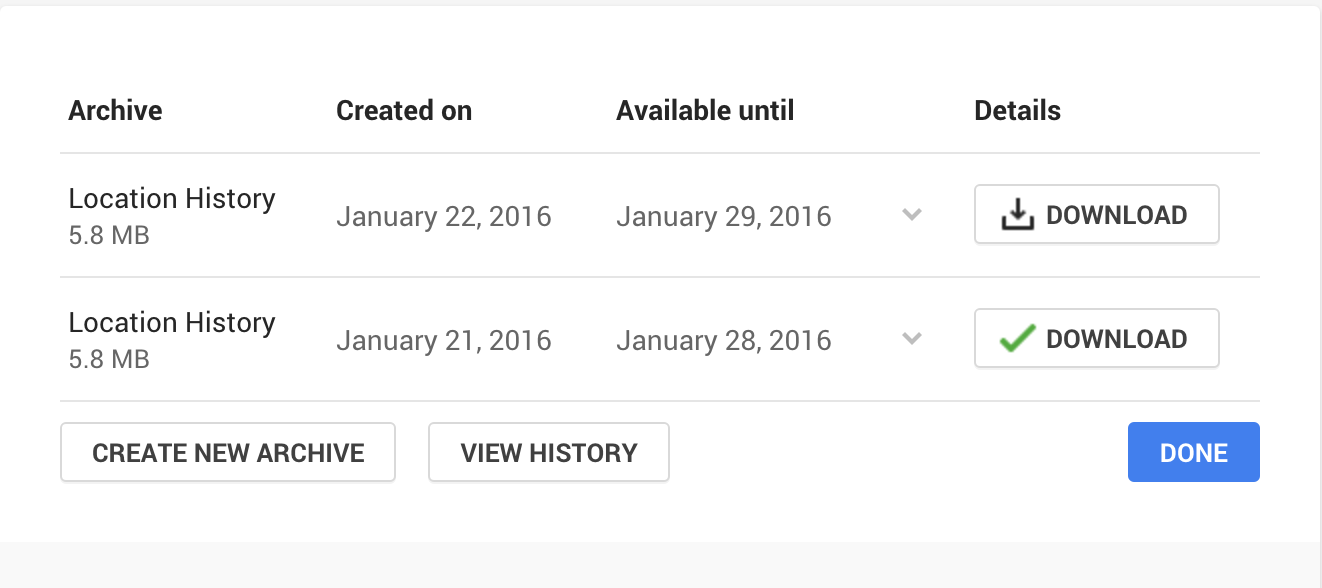
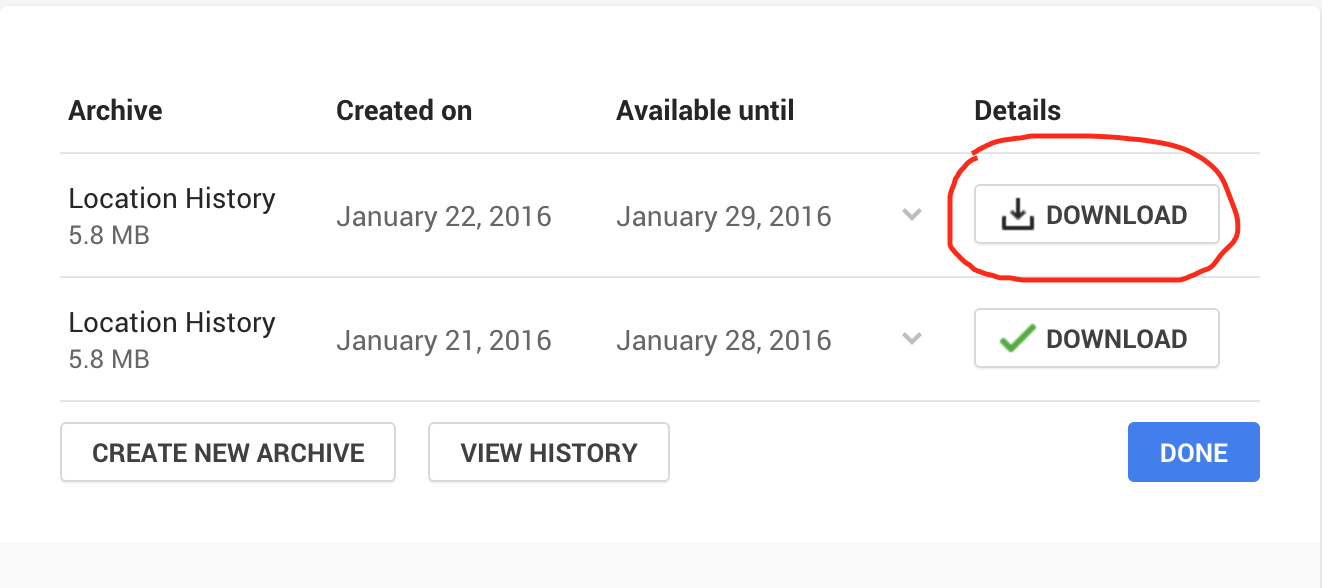
annotated images

diff --git a/download.html b/download.html
@@ -64,7 +64,7 @@
   <li>
     Optional: If you already went through the process of downloading Location History but never saved the data to
     <br>your computer, you can always click on <b>Manage archives</b> and then click <b>Download</b>.
-    <img src="img/create_archive.png">
+    <img src="img/manage_archive.png">
   </li>
 
   <li>
